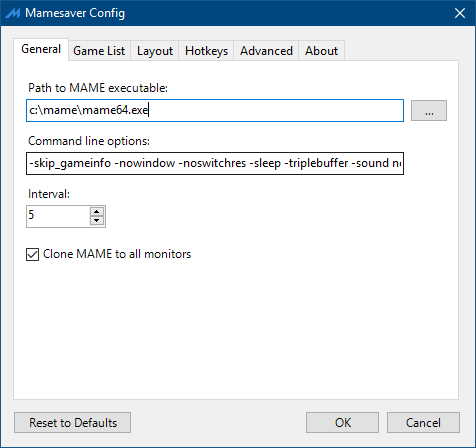
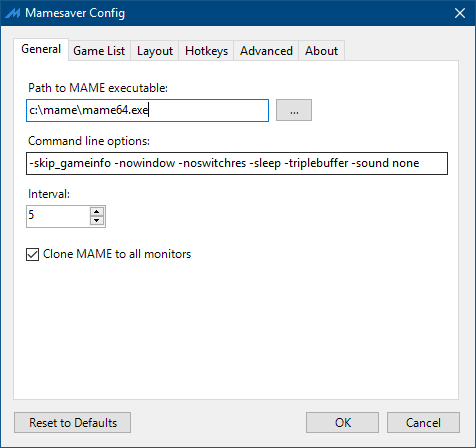
Tweaked field sizes

diff --git a/Mamesaver/ConfigForm.Designer.cs b/Mamesaver/ConfigForm.Designer.cs
@@ -129,15 +129,15 @@ namespace Mamesaver
             | System.Windows.Forms.AnchorStyles.Right)));
             this.txtExec.Location = new System.Drawing.Point(9, 37);
             this.txtExec.Name = "txtExec";
-            this.txtExec.Size = new System.Drawing.Size(378, 23);
+            this.txtExec.Size = new System.Drawing.Size(243, 23);
             this.txtExec.TabIndex = 1;
             // 
             // btnExecBrowse
             // 
             this.btnExecBrowse.Anchor = ((System.Windows.Forms.AnchorStyles)((System.Windows.Forms.AnchorStyles.Top | System.Windows.Forms.AnchorStyles.Right)));
-            this.btnExecBrowse.Location = new System.Drawing.Point(393, 37);
+            this.btnExecBrowse.Location = new System.Drawing.Point(258, 36);
             this.btnExecBrowse.Name = "btnExecBrowse";
-            this.btnExecBrowse.Size = new System.Drawing.Size(38, 23);
+            this.btnExecBrowse.Size = new System.Drawing.Size(38, 24);
             this.btnExecBrowse.TabIndex = 2;
             this.btnExecBrowse.Text = "...";
             this.btnExecBrowse.UseVisualStyleBackColor = true;
@@ -342,7 +342,7 @@ namespace Mamesaver
             | System.Windows.Forms.AnchorStyles.Right)));
             this.txtCommandLineOptions.Location = new System.Drawing.Point(9, 90);
             this.txtCommandLineOptions.Name = "txtCommandLineOptions";
-            this.txtCommandLineOptions.Size = new System.Drawing.Size(378, 23);
+            this.txtCommandLineOptions.Size = new System.Drawing.Size(422, 23);
             this.txtCommandLineOptions.TabIndex = 4;
             // 
             // label2
